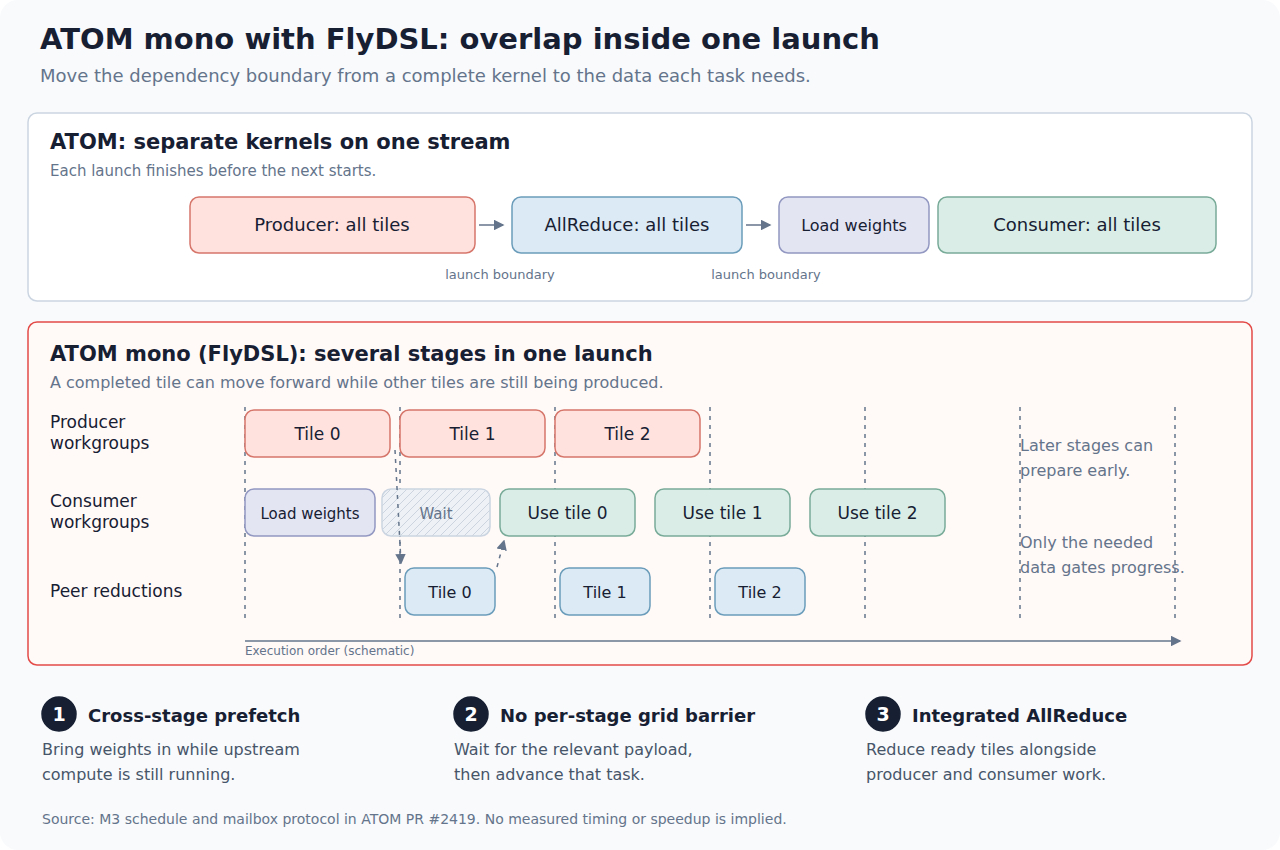
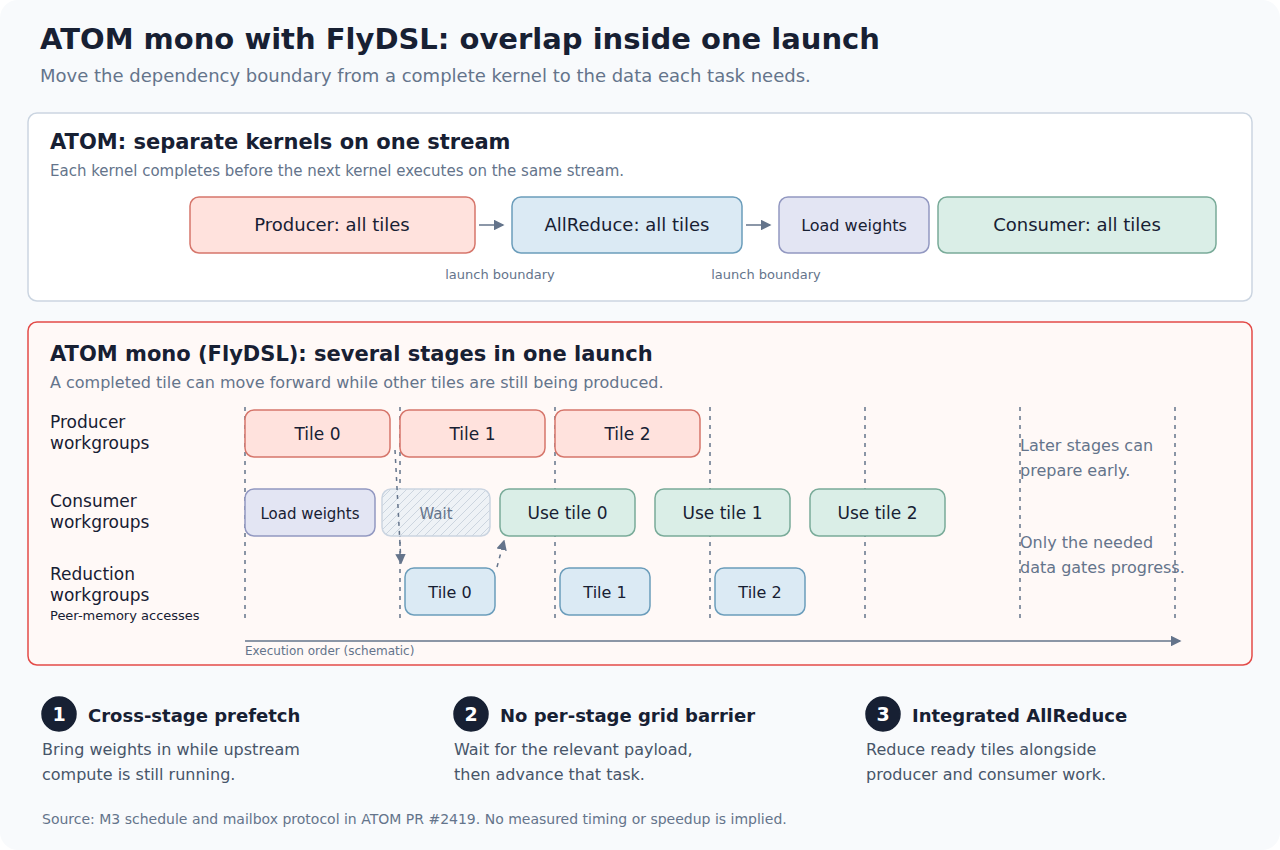
Address mono blog review with clearer figures and quality evidence

Changed region(s): [[0.0625, 0.1835, 0.5, 0.2141], [0.0312, 0.6729, 0.1562, 0.7341]]

diff --git a/blogs/software-tools-optimization/flydsl-atom-mono-kernels/README.md b/blogs/software-tools-optimization/flydsl-atom-mono-kernels/README.md
@@ -1,6 +1,6 @@
 ---
 blogpost: true
-blog_title: "Mono Kernels on AMD Instinct: Faster LLM Decode with FlyDSL and ATOM"
+blog_title: "Mono Kernels with FlyDSL: Up to 1.83× Faster LLM Decode in ATOM"
 date: 12 Oct 2026
 author: ""
 thumbnail: 'mono-overlap.png'
@@ -23,19 +23,21 @@ myst:
         "amd_blog_topic_categories": "Enterprise & Data Center Trends"
 ---
 
-# Mono Kernels on AMD Instinct: Faster LLM Decode with FlyDSL and ATOM
+# Mono Kernels with FlyDSL: Up to 1.83× Faster LLM Decode in ATOM
 
 Interactive chat and coding assistants need fast responses when only one or a few requests are active. Each decode step sends a small number of token rows through every layer, often as many short GPU kernels. Launching those kernels and waiting between stages can take a substantial share of the step.
 
 **Mono kernels speed up low-concurrency decode by keeping connected computations and communication in one resident GPU schedule.** [FlyDSL](https://github.com/ROCm/FlyDSL) makes that schedule programmable; [ATOM](https://github.com/ROCm/ATOM) (AiTer Optimized Model) runs it as part of its serving engine. On MI355X at batch one and a 1M context, MiniMax-M3's GPU decode step is **1.64× faster with mono**, rising to **1.83× with indexer context parallelism (CP)**: **11.47 → 7.00 → 6.26 ms** within ATOM. [1]
 
-![M3 GPU decode-step latency: ATOM separate kernels 11.47 ms, FlyDSL mono 7.00 ms, FlyDSL mono plus indexer CP 6.26 ms](images/minimax-decode-step.png)
+![M3 GPU decode-step latency: ATOM separate kernels 11.47 ms, FlyDSL mono 7.00 ms, FlyDSL mono plus indexer CP 6.26 ms](images/minimax-flydsl-decode-step.png)
 
-*Figure 1. M3 at batch one: ATOM's separate kernels, FlyDSL mono, and FlyDSL mono + indexer CP. MI355X, TP4, MXFP4, 1M context, EAGLE3 with three speculative tokens. Lower is better. [1]*
+*Figure 1. FlyDSL mono reduces M3 decode latency in ATOM; indexer CP adds a further gain at long context. [1]*
 
 ## Why many small kernels slow down decode
 
 Consider one sparse decoder layer. Normalization and projections prepare queries, keys, and values. Cache updates and index selection feed attention. Output projection and reduction feed expert routing; expert GEMMs and another reduction finish the layer. Each producer-to-consumer boundary is a place where work may wait. [3]
+
+A typical DeepSeek-V4.1-Flash layer illustrates the scale: vLLM reports **about 40 separate kernels** for its standard layer path, replaced by two mono launches. [14]
 
 HIP Graph replay reduces CPU submission overhead, but the GPU still executes separate kernels and their dependencies. A later GEMM could load its weights while the previous stage produces its input. A reduction could start on one completed row while other rows are still being computed. Mono lets the kernel author express both kinds of overlap inside the layer.
 
@@ -63,7 +65,7 @@ There are three main benefits:
 
 FlyDSL is a Python domain-specific language for GPU kernels. It gives the author control over tensor layouts, matrix instructions, memory loads, and synchronization; an MLIR compiler pipeline turns the program into GPU code. For mono, the author can generate task assignments and their storage layouts together. M3 builds a variant for each row count from 1 to 16, choosing how tokens share expert weights before the kernel runs. [2], [3]
 
-Two small choices in the [M3 layout code](https://github.com/ROCm/ATOM/blob/2b9f3412e466fd4172a4a621fe9215a1041130c1/atom/models/minimax_m3/mono/layout.py) show why that control matters:
+Efficient operand delivery and handoffs depend on the data layout. Two small choices in the [M3 layout code](https://github.com/ROCm/ATOM/blob/2b9f3412e466fd4172a4a621fe9215a1041130c1/atom/models/minimax_m3/mono/layout.py) show why that control matters:
 
 - **Spread simultaneous loads across LDS banks.** For this operand layout at 16 token rows, the source comment records 16-way bank conflicts costing about **3 µs per up/gate task** in the measured implementation. Adding 16 bytes to each row's pitch removes those conflicts. The layout change sits beside the Python task assignments.
 - **Spread reads of the router results.** In the source-reported configuration, **240 expert workgroups** poll one 1 KB score payload. Making eight copies spreads those reads out; the source records **37.3 → 35.9 µs** for that four-GPU K4 configuration. [11]
@@ -84,7 +86,7 @@ M3's [mono kernel](https://github.com/ROCm/ATOM/blob/2b9f3412e466fd4172a4a621fe9
 
 **Prepare queries, keys, and values.** The [pre-attention stages](https://github.com/ROCm/ATOM/blob/2b9f3412e466fd4172a4a621fe9215a1041130c1/atom/models/minimax_m3/mono/kernels/pre_attn.py) normalize and quantize inputs to per-token FP8, then use FP8 **MFMA (matrix fused multiply-add) instructions** for the Q/K/V and index projections. Head normalization, rotary position embedding (RoPE), and cache insertion consume the projection outputs inside the same program. [3]
 
-**Select the cache blocks and run sparse attention.** M3's [index scorer](https://github.com/ROCm/ATOM/blob/2b9f3412e466fd4172a4a621fe9215a1041130c1/atom/models/minimax_m3/mono/kernels/index_score.py) assigns one 128-key block of a request to a **64-thread wavefront (wave64)**. The scorer converts stored FP8 keys to BF16 MFMA operands. Speculative query rows occupy MFMA columns, so the wavefront reuses a key load across those rows. Only a block that may contain newly inserted keys waits for that insertion. Selection chooses 16 blocks of 128 tokens, and sparse attention processes them in eight partitions of 256 keys. Scoring, selection, and attention stay connected within the launch. [3]
+**Select the cache blocks and run sparse attention.** M3's [index scorer](https://github.com/ROCm/ATOM/blob/2b9f3412e466fd4172a4a621fe9215a1041130c1/atom/models/minimax_m3/mono/kernels/index_score.py) changes its mapping with the number of scoring tasks. With at most 256 non-CP tasks, one workgroup handles a 128-key block and its **64-thread wavefronts (wave64)** split the key tiles. Larger task sets and CP use one block per wavefront. The scorer converts stored FP8 keys to BF16 MFMA operands and places speculative query rows in MFMA columns, reusing the key data across those rows. Only a block that may contain newly inserted keys waits for that insertion. Selection chooses 16 blocks of 128 tokens, and sparse attention processes them in eight partitions of 256 keys. Scoring, selection, and attention stay connected within the launch. [3]
 
 **Project and reduce the attention output.** Partition merging and FP8 quantization prepare the output-projection operands. Projection tasks produce TP partials; the attention reduction combines them and feeds the residual update and normalization needed by the router. This connects the attention result directly to the input of the expert computation. [3]
 
@@ -144,23 +146,41 @@ Mono reorganizes connected stages; CP improves key-data reuse in the long-contex
 
 ATOM selects the row-count variant and supplies cache metadata for each eligible decode step; unsupported steps use its separate-kernel path. **M3 mono defaults on for eligible TP4 configurations.** The stock recipe enables the shared index cache, which disables mono, so using mono requires **`use_index_cache: false`**.[^m3-support] [3], [4]
 
+## DeepSeek-V4.1: adapt the fusion boundary to the model
+
+DeepSeek-V4.1 has state updates between groups of operations. Its [runner](https://github.com/ROCm/ATOM/blob/5e8d9131739aaa53836713c79e6d547c23980f03/atom/models/deepseek_v41/mono/runner.py) keeps Engram before attention preparation where present, and a compressor before index scoring on selecting layers. Around those calls, it uses **two mono launches per rank: K1 and K2**. [13]
+
+[K1](https://github.com/ROCm/ATOM/blob/5e8d9131739aaa53836713c79e6d547c23980f03/atom/models/deepseek_v41/mono/kernels/attn_pre.py) fuses normalization, Q/KV and index-query projections, RoPE, and window-cache insertion. [K2](https://github.com/ROCm/ATOM/blob/5e8d9131739aaa53836713c79e6d547c23980f03/atom/models/deepseek_v41/mono/kernels/layer_post.py) joins **K2a—index selection, sparse attention, output projections, attention reduction, and normalization—with K2b—routing, expert GEMMs, and FFN reduction—in one launch**. The normalized attention output becomes the MoE input inside that kernel. [13]
+
+K2 prioritizes the current layer's dependency: the MoE needs the normalized attention output, while the mHC residual-mixing gate outputs are used by the next layer. Publishing the norm result first lets this layer's MoE preparation advance before those gates run. In the token-parallel configuration, V4.1 assigns owners by token row, so each rank normalizes its own rows and exchanges them for MoE computation. [9], [13]
+
+![DeepSeek-V4.1 keeps state updates around K1 and K2, with attention and experts fused in K2](images/deepseek-v41-mono-flow.svg)
+
+*Figure 5. Two mono launches preserve the original state-update calls while keeping attention and experts together inside K2.*
+
+M3 can fuse a whole sparse layer. V4.1 keeps the compressor between K1 and K2, preserving its cache updates while removing launches between the attention and expert stages inside K2. The model's dependencies determine which operations belong in each fused region.
+
 ## Performance results
 
 ### Scope and methodology
 
-Separate-versus-mono results compare **complete implementation paths**, so they do not isolate the contribution of launch reduction, prefetch, or communication overlap. Speedup is **baseline / mono for latency**, and **mono / baseline for throughput or interactivity**; 1.00× means unchanged. These ratios summarize each test, with the measured scope beside them. They are not a ranking between models. M3's CP result adds an indexer optimization; Kimi-K3 and GLM-5.2 from open ATOM PR #2435 remain **in progress**.[^benchmark-data]
+Separate-versus-mono results compare **complete implementation paths**, so they do not isolate launch reduction, prefetch, or communication overlap. Speedup is **baseline / mono for latency** and **mono / baseline for throughput or interactivity**. M3's CP result adds an indexer optimization; Kimi-K3 and GLM-5.2 from open ATOM PR #2435 remain **in progress**.[^benchmark-data]
 
 ### M3: decode latency with mono and indexer CP
 
 The server measurements use MI355X, TP4, MiniMax-M3-MXFP4, a 1M context, and EAGLE3 with three speculative tokens. Batches of 1, 2, and 4 produce 4, 8, and 16 target-model rows before graph padding. The [decode-step CSV](data/minimax-decode-step.csv) retains the reported values. **Separate** and **Mono** are the two execution paths within ATOM. Latencies are in milliseconds; Gain lists mono / mono + CP speedups. [1]
-
-M3's source PR also reports **bit-identical index selection** over 3K–1.04M contexts, **bit-identical outputs through 16 chained layers with CP off versus on** at the tested 3K, 37K, and 200K contexts, and a successfully served **1,040,186-token request**. [1] Quality scores for the serving comparisons are recorded in the notes.[^quality]
 
 | Batch | Separate | Mono | Mono + CP | Gain |
 | ---: | ---: | ---: | ---: | ---: |
 | 1 | 11.47 | 7.00 | 6.26 | **1.64× / 1.83×** |
 | 2 | 13.40 | 9.50 | 7.77 | **1.41× / 1.72×** |
 | 4 | 18.47 | 15.88 | 12.36 | **1.16× / 1.49×** |
+
+### Why the gain changes with batch size
+
+At batch one, M3 mono saves **4.47 ms** and CP saves a further **0.74 ms**. At batch four, mono saves **2.59 ms** and CP saves another **3.52 ms**. More rows spread launch overhead across more useful work, consistent with mono's smaller speedup at batch four. At wider shapes, expert grouping reuses weights across token rows, and CP targets repeated key loads in the index scan.
+
+Mono is most useful when a layer has many short, dependent operations. A resident grid must fit on the GPU, and a larger fused region does not automatically run faster. Use the actual decode widths to choose the fusion boundary and keep the separate path for steps outside that range. [3], [5]
 
 ### One-launch layer results: GLM-5
 
@@ -170,12 +190,6 @@ M3's source PR also reports **bit-identical index selection** over 3K–1.04M co
 | ---: | ---: | ---: | ---: |
 | 4 | **1** | 205.8–213.7 → **78.4–78.6** | **2.62–2.73×** |
 | 8 | **1** | 223.4 → **118.2–118.3** | **1.89×** |
-
-### Why the gain changes with batch size
-
-At batch one, M3 mono saves **4.47 ms** and CP saves a further **0.74 ms**. At batch four, mono saves **2.59 ms** and CP saves another **3.52 ms**. More rows spread launch overhead across more useful work, consistent with mono's smaller speedup at batch four. At wider shapes, expert grouping reuses weights across token rows, and CP targets repeated key loads in the index scan.
-
-Mono is most useful when a layer has many short, dependent operations. A resident grid must fit on the GPU, and a larger fused region does not automatically run faster. Use the actual decode widths to choose the fusion boundary and keep the separate path for steps outside that range. [3], [5]
 
 ### Results across models
 
@@ -192,21 +206,20 @@ Kimi-K3 keeps production attention, KDA, and `AttnRes`; the comparison changes o
 
 The approach has also landed in **vLLM**: merged PRs [#60397](https://github.com/vllm-project/vllm/pull/60397) and [#61082](https://github.com/vllm-project/vllm/pull/61082) bring ATOM-derived FlyDSL mono kernels to DeepSeek-V4.1-Flash, with the separate-path layer-latency improvement shown above. [14], [15]
 
-### DeepSeek-V4.1: adapt the fusion boundary to the model
-
-DeepSeek-V4.1 has state updates between groups of operations. Its [runner](https://github.com/ROCm/ATOM/blob/5e8d9131739aaa53836713c79e6d547c23980f03/atom/models/deepseek_v41/mono/runner.py) keeps Engram before attention preparation where present, and a compressor before index scoring on selecting layers. Around those calls, it uses **two mono launches per rank: K1 and K2**. [13]
-
-[K1](https://github.com/ROCm/ATOM/blob/5e8d9131739aaa53836713c79e6d547c23980f03/atom/models/deepseek_v41/mono/kernels/attn_pre.py) fuses normalization, Q/KV and index-query projections, RoPE, and window-cache insertion. [K2](https://github.com/ROCm/ATOM/blob/5e8d9131739aaa53836713c79e6d547c23980f03/atom/models/deepseek_v41/mono/kernels/layer_post.py) joins **K2a—index selection, sparse attention, output projections, attention reduction, and normalization—with K2b—routing, expert GEMMs, and FFN reduction—in one launch**. The normalized attention output becomes the MoE input inside that kernel. [13]
-
-K2 prioritizes the current layer's dependency: the MoE needs the normalized attention output, while the mHC residual-mixing gate outputs are used by the next layer. Publishing the norm result first lets this layer's MoE preparation advance before those gates run. In the token-parallel configuration, V4.1 assigns owners by token row, so each rank normalizes its own rows and exchanges them for MoE computation. [9], [13]
-
-![DeepSeek-V4.1 keeps state updates around K1 and K2, with attention and experts fused in K2](images/deepseek-v41-mono-flow.svg)
-
-*Figure 5. Two mono launches preserve the original state-update calls while keeping attention and experts together inside K2.*
-
-M3 can fuse a whole sparse layer. V4.1 keeps the compressor between K1 and K2, preserving its cache updates while removing launches between the attention and expert stages inside K2. The model's dependencies determine which operations belong in each fused region.
-
 The ATOM V4.1 schedule also continues to improve: #2545 reports **4% / 10% / 11% / 12% lower decode-step time** at batches 1/2/4/8, with bit-identical outputs, relative to the previous mono schedule. This is the combined result of updates including token parallelism, handoff prefetch, and mHC seam ordering; individual contributions were not isolated. [9]
+
+## Quality results
+
+The merged vLLM implementation also has model-level quality evidence. For **DeepSeek-V4.1-Flash**, PR #61082 compares mono on and off on the same branch, using MI355X TP2, four seeds per mode, thinking enabled, and DSpark with block rejection. The reported pass@1 scores are: [15]
+
+| Benchmark | Mono off (%) | Mono on (%) |
+| --- | ---: | ---: |
+| GPQA-Diamond | 85.0 ± 2.2 | **85.0 ± 2.2** |
+| AIME25 | 98.3 ± 1.2 | **100.0 ± 0.0** |
+
+Both modes also score **100% on all nine RULER NIAH settings**: `single-1`, `multikey-2`, and `multikey-3` at 32K, 128K, and 256K context. Each setting uses 40 samples with greedy decoding, for 360 samples per mode. [15]
+
+M3's source PR reports **bit-identical index selection** over 3K–1.04M contexts, **bit-identical outputs through 16 chained layers with CP off versus on** at the tested 3K, 37K, and 200K contexts, and a successfully served **1,040,186-token request**. [1] The ATOM serving paths' GSM8K results are recorded in the notes.[^quality]
 
 ## Build a mono path for your model
 
@@ -220,11 +233,11 @@ There is concrete work to build on: the open Kimi-K3 and GLM-5.2 paths extend mo
 
 Bring a model, a profile, or a measured schedule improvement to [FlyDSL](https://github.com/ROCm/FlyDSL) or [ATOM](https://github.com/ROCm/ATOM). The reusable pieces are available; the next step is to find which waits your model can remove.
 
-[^benchmark-data]: No new GPU benchmarks, quality evaluations, or server runs were performed for this article. The CSV files retain source configurations and reported values. PR status was checked on October 14, 2026; refresh the in-progress paths before publication.
+[^benchmark-data]: Results are reported in the linked PRs. The [comparison CSV](data/mono-benefits.csv) and M3 CSVs retain source configurations and reported values. PR status was checked on October 14, 2026.
 
 [^m3-support]: At ATOM #2419, M3 mono requires TP4, DP=PP=1, FP8 KV/index caches with 128-token blocks, `max_model_len` ≤ 1,048,576, eager or non-piecewise graphs, no TBO, and no ATOM vLLM/SGLang plugin mode. Eligible decode steps have 1–16 rows including graph padding and matching cache metadata. The [example launch script](data/run-minimax-m3-mono.sh) adapts the pinned recipe for four MI355X GPUs, an ATOM installation containing #2419 with its FlyDSL/AITER dependencies, and access to the M3 MXFP4 and EAGLE3 checkpoints. `ATOM_MONO_CHECK` provides per-layer comparisons; `ATOM_MONO_TRACE` and `ATOM_MONO_TIMELINE` expose step data and timing during development. [1], [3], [12]
 
-[^quality]: M3's GSM8K five-shot scores are 0.9447 for ATOM's separate-kernel path, 0.9371/0.9424 for mono, and 0.9378 for mono plus CP. The two mono runs span 0.53 percentage points; the 0.69-point difference between the separate-kernel path and mono plus CP is of similar magnitude. PR #2435 reports Kimi-K3 mono/separate-kernel scores of 0.959060/0.959818 and GLM-5.2 mono/separate-kernel scores of 0.9606/0.9674, a 0.68-point difference for GLM. [1], [8]
+[^quality]: M3's GSM8K five-shot scores are 0.9447 for ATOM's separate-kernel path, 0.9371/0.9424 for mono, and 0.9378 for mono plus CP. The two mono runs span 0.53 percentage points. PR #2435 reports Kimi-K3 mono/separate-kernel scores of 0.959060/0.959818 and GLM-5.2 mono/separate-kernel scores of 0.9606/0.9674. [1], [8]
 
 ## References
 
@@ -242,7 +255,7 @@ Bring a model, a profile, or a measured schedule improvement to [FlyDSL](https:/
 12. [MiniMax-M3 recipe and EAGLE3 server configuration at #2419](https://github.com/ROCm/ATOM/blob/2b9f3412e466fd4172a4a621fe9215a1041130c1/recipes/MiniMax-M3.md).
 13. [DeepSeek-V4.1 mono runner, indexer, projections, experts, and token-parallel reductions at #2545](https://github.com/ROCm/ATOM/tree/5e8d9131739aaa53836713c79e6d547c23980f03/atom/models/deepseek_v41/mono).
 14. [vLLM PR #60397: merged DeepSeek-V4.1-Flash mono decode, launch counts, and separate-path comparisons](https://github.com/vllm-project/vllm/pull/60397).
-15. [vLLM PR #61082: merged coverage of all 40 backbone layers and the `--monokernel` switch](https://github.com/vllm-project/vllm/pull/61082).
+15. [vLLM PR #61082: merged whole-layer coverage, GPQA-Diamond, AIME25, and RULER NIAH results](https://github.com/vllm-project/vllm/pull/61082).
 16. [vLLM PR #60731: proposed gfx942 port for MI300X and MI325X, with MI325X measurements](https://github.com/vllm-project/vllm/pull/60731).
 
 [1]: https://github.com/ROCm/ATOM/pull/2419
